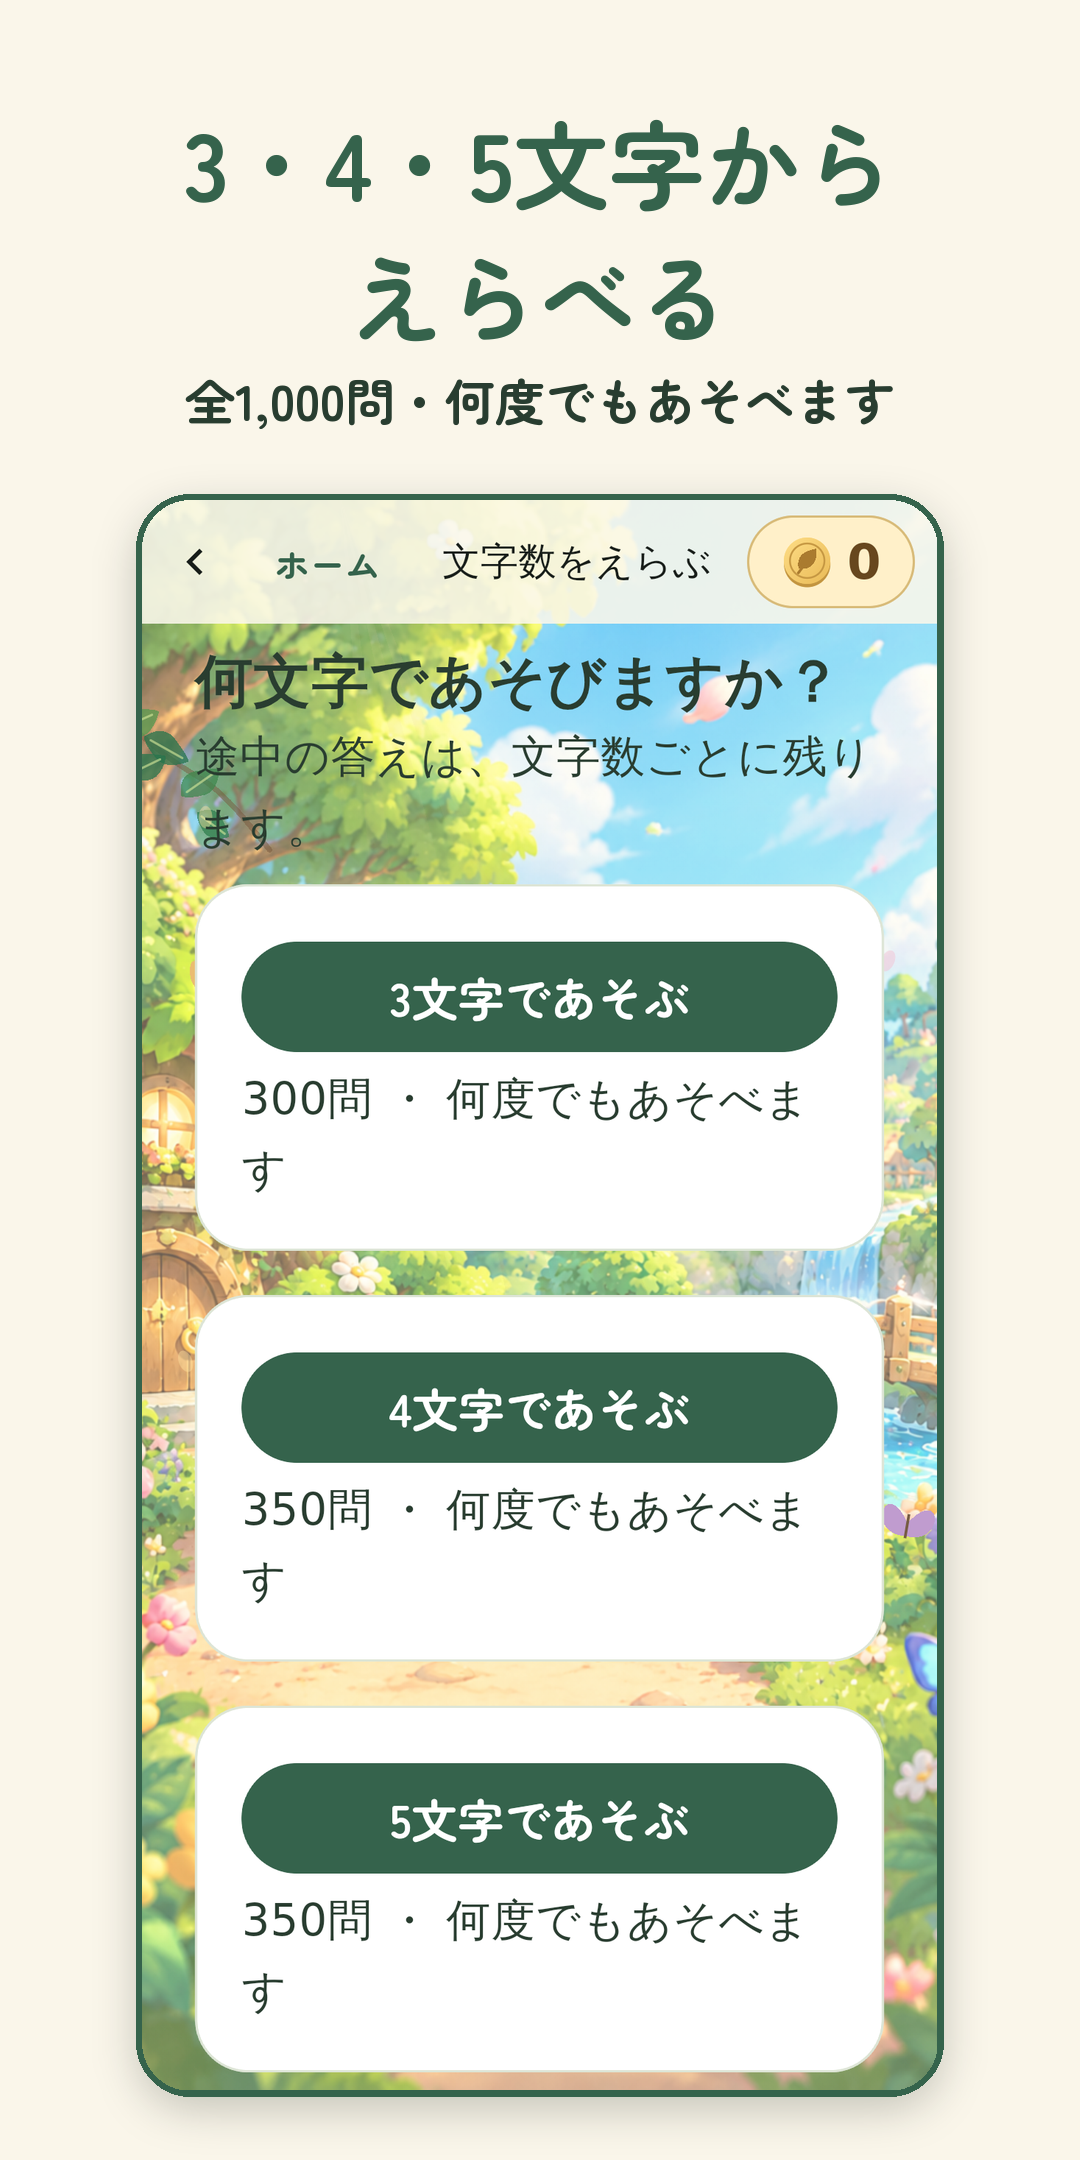
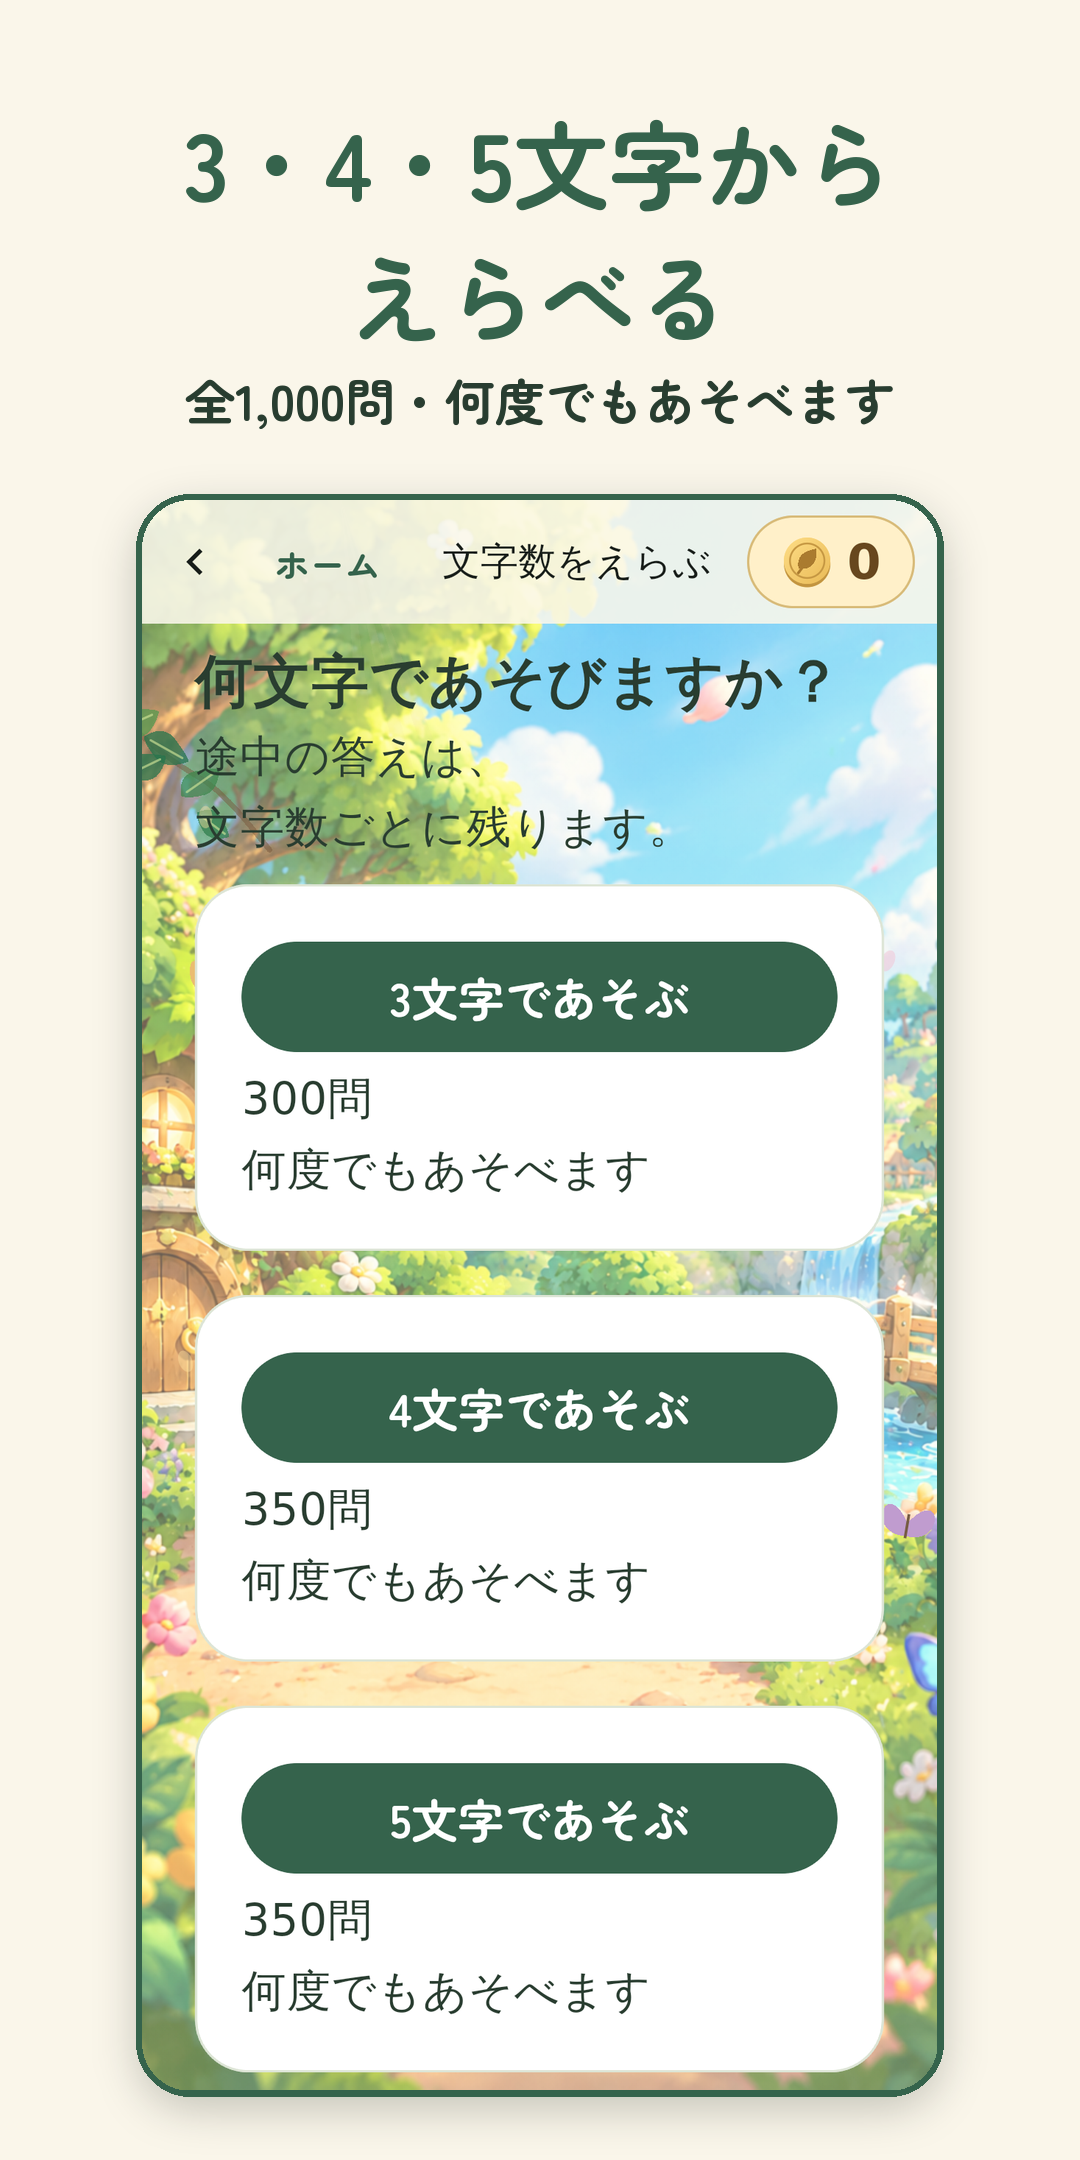
Break mode-picker texts only between words
The heading, the note and the per-mode counts wrapped mid-word
(あそべま/す, 残り/ます). They now use the same word-boundary fitting as
the home buttons. Tests cover 320/360 widths with both text sizes; the
mode-picker store screenshot is retaken.

Claude-Session: https://claude.ai/code/session_018kCAxEKQjBiSm9vDDv11JS

diff --git a/test/startup_and_map_layout_test.dart b/test/startup_and_map_layout_test.dart
@@ -136,4 +136,56 @@ void main() {
       });
     }
   }
+
+  for (final size in const [Size(320, 640), Size(360, 720)]) {
+    for (final large in const [false, true]) {
+      testWidgets('文字数をえらぶ画面の文が$size・大きめ=$largeでも言葉の途中で改行されない', (tester) async {
+        tester.view.physicalSize = size;
+        tester.view.devicePixelRatio = 1;
+        addTearDown(tester.view.reset);
+        addTearDown(() async => tester.pumpWidget(const SizedBox.shrink()));
+        final progress = Progress(reduceMotion: true, largeText: large)
+          ..loginDate = Progress.dayKey(DateTime.now())
+          ..loginDay = 1;
+        SharedPreferences.setMockInitialValues({
+          'forest_progress': progress.encode(),
+        });
+        await tester.pumpWidget(const ForestApp());
+        await enterPastTitle(tester);
+        await tester.pump(const Duration(seconds: 1));
+        final dynamic app = tester.state(find.byType(ForestApp));
+        app.go('文字数をえらぶ');
+        await tester.pump(const Duration(seconds: 1));
+        final labels = [
+          '何文字であそびますか？',
+          '途中の答えは、文字数ごとに残ります。',
+          '${words.where((w) => w.text.length == 3).length}問 ・ 何度でもあそべます',
+        ];
+        for (final label in labels) {
+          final text = tester.widgetList<Text>(findLabel(label)).first;
+          final paragraph = tester
+              .renderObjectList<RenderParagraph>(
+                find.descendant(
+                  of: find.byWidget(text),
+                  matching: find.byType(RichText),
+                ),
+              )
+              .first;
+          final shown = paragraph.text.toPlainText();
+          expect(
+            paragraph
+                .getBoxesForSelection(
+                  TextSelection(baseOffset: 0, extentOffset: shown.length),
+                )
+                .map((b) => b.top.round())
+                .toSet()
+                .length,
+            shown.split('\n').length,
+            reason: label,
+          );
+        }
+        expect(tester.takeException(), isNull);
+      });
+    }
+  }
 }

diff --git a/lib/main.dart b/lib/main.dart
@@ -394,13 +394,41 @@ class _ForestAppState extends State<ForestApp> with WidgetsBindingObserver {
   }
 
   List<Widget> modePicker() => [
-    heading('何文字であそびますか？'),
-    const Text('途中の答えは、文字数ごとに残ります。'),
+    // Line breaks only between words (see fitLabel), never 「あそべま／す」.
+    fitLabel(
+      '何文字であそびますか？',
+      const TextStyle(fontSize: 26, fontWeight: FontWeight.w700, height: 1.4),
+      broken: '何文字で\nあそびますか？',
+      textAlign: TextAlign.left,
+      alignment: Alignment.centerLeft,
+    ),
+    fitLabel(
+      '途中の答えは、文字数ごとに残ります。',
+      const TextStyle(),
+      broken: '途中の答えは、\n文字数ごとに残ります。',
+      textAlign: TextAlign.left,
+      alignment: Alignment.centerLeft,
+    ),
     for (final length in [3, 4, 5])
       panel([
         button('$length文字であそぶ', () => chooseLength(length), primary: true),
-        Text(
-          '${words.where((w) => w.text.length == length).length}問 ・ ${progress.modes[length]?.guesses.isNotEmpty == true || progress.modes[length]?.draft.isNotEmpty == true ? 'つづきがあります' : '何度でもあそべます'}',
+        Builder(
+          builder: (context) {
+            final count = words.where((w) => w.text.length == length).length;
+            final mode = progress.modes[length];
+            final status =
+                mode?.guesses.isNotEmpty == true ||
+                    mode?.draft.isNotEmpty == true
+                ? 'つづきがあります'
+                : '何度でもあそべます';
+            return fitLabel(
+              '$count問 ・ $status',
+              const TextStyle(),
+              broken: '$count問\n$status',
+              textAlign: TextAlign.left,
+              alignment: Alignment.centerLeft,
+            );
+          },
         ),
       ]),
     if (progress.legacyAvailable)

diff --git a/HANDOVER.md b/HANDOVER.md
@@ -122,6 +122,7 @@ flutter build appbundle --release --dart-define=ADMOB_REWARDED_ANDROID_ID=ca-app
 - 機械チェック済み: 既存800語＋旧データとの重複なし、文字数（小さい「ゃゅょっ」・「ー」も1マス）一致、入力できる文字のみ、ヒントに答え（ひらがな・カタカナ）がそのまま入っていない。`dart run tool/audit_words.dart` で不正0件、`flutter test` 全137件・`flutter analyze` 問題なし。
 - ヒント文まで含めた全件の表は `docs/word-review.md` の「1,000語への拡充」。文字数を選ぶ画面の問題数（300問・350問）は単語データから自動で数えるため、アプリ側の変更は不要。
 - ストア用スクショ `store/play/screenshots/03-modes.png` を「全1,000問」に撮り直した。
+- 文字数をえらぶ画面の文の改行崩れを修正（2026-11-27）: 「何度でもあそべま／す」「残り／ます」のように言葉の途中で改行されていた。ホーム画面と同じく、入らないときは「何文字で／あそびますか？」「途中の答えは、／文字数ごとに残ります。」「300問／何度でもあそべます」と言葉の切れ目でだけ改行する。テスト追加（幅320/360 × 標準/大きめ）、全141件成功。03-modes.png も撮り直し。
 
 ### 追加した4文字（50語）
 
